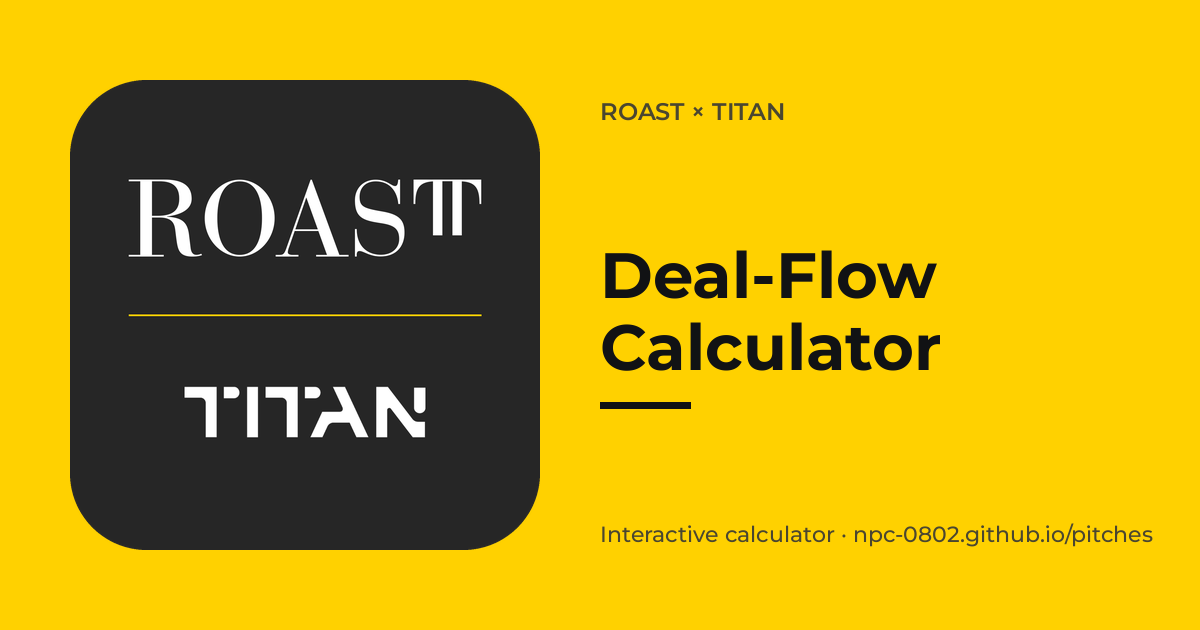
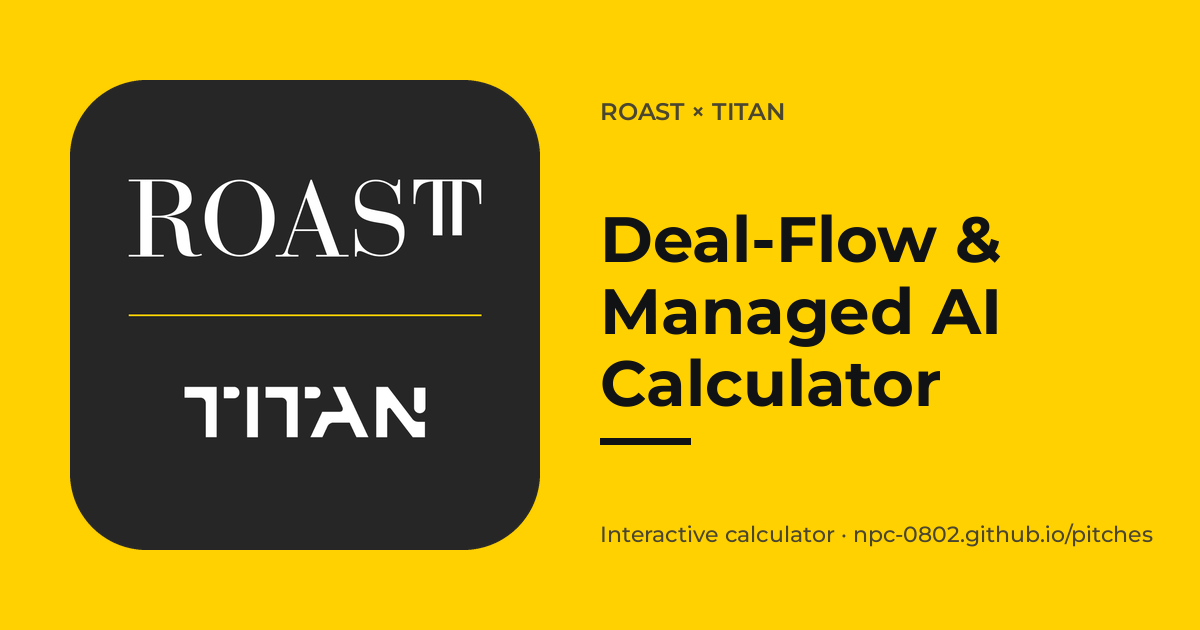
Titan calculator v2: deal flow from warming the seller list and being found, plus Managed AI for portfolio clients
Claude-Session: https://claude.ai/code/session_0127LAqr8J8f1qpkmaHLPX8r

Changed region(s): [[0.4933, 0.3317, 0.8325, 0.6635], [0.4933, 0.6937, 0.5858, 0.7238]]

diff --git a/titan-deal-flow-calculator/index.html b/titan-deal-flow-calculator/index.html
@@ -3,24 +3,24 @@
 <head>
 <meta charset="utf-8">
 <meta name="viewport" content="width=device-width, initial-scale=1, viewport-fit=cover">
-<title>Titan Deal-Flow Calculator</title>
+<title>Titan Deal-Flow & Managed AI Calculator</title>
 <!-- share:start -->
 <link rel="icon" href="../assets/favicon.svg" type="image/svg+xml">
 <link rel="icon" href="../assets/favicon-32.png" sizes="32x32" type="image/png">
 <link rel="apple-touch-icon" href="../assets/apple-touch-icon.png">
-<meta name="description" content="What Google Ads on owner searches, an owner hub and a bigger share of AI answers are worth to Titan in qualified seller conversations, deals and acquired revenue, and what each month of waiting defers.">
+<meta name="description" content="What warming the owners Titan wants to buy, being found in Google and AI, and launching Managed AI to existing clients is worth in deals and revenue; ~$8.5M a year at placeholder rates.">
 <meta property="og:type" content="website">
 <meta property="og:site_name" content="ROAST">
-<meta property="og:title" content="Titan Deal-Flow Calculator">
-<meta property="og:description" content="What Google Ads on owner searches, an owner hub and a bigger share of AI answers are worth to Titan in qualified seller conversations, deals and acquired revenue, and what each month of waiting defers.">
+<meta property="og:title" content="Titan Deal-Flow &amp; Managed AI Calculator">
+<meta property="og:description" content="What warming the owners Titan wants to buy, being found in Google and AI, and launching Managed AI to existing clients is worth in deals and revenue; ~$8.5M a year at placeholder rates.">
 <meta property="og:url" content="https://npc-0802.github.io/pitches/titan-deal-flow-calculator/">
 <meta property="og:image" content="https://npc-0802.github.io/pitches/titan-deal-flow-calculator/og.png">
 <meta property="og:image:width" content="1200">
 <meta property="og:image:height" content="630">
-<meta property="og:image:alt" content="ROAST × Titan: Deal-Flow Calculator">
+<meta property="og:image:alt" content="ROAST × Titan: Deal-Flow &amp; Managed AI Calculator">
 <meta name="twitter:card" content="summary_large_image">
-<meta name="twitter:title" content="Titan Deal-Flow Calculator">
-<meta name="twitter:description" content="What Google Ads on owner searches, an owner hub and a bigger share of AI answers are worth to Titan in qualified seller conversations, deals and acquired revenue, and what each month of waiting defers.">
+<meta name="twitter:title" content="Titan Deal-Flow &amp; Managed AI Calculator">
+<meta name="twitter:description" content="What warming the owners Titan wants to buy, being found in Google and AI, and launching Managed AI to existing clients is worth in deals and revenue; ~$8.5M a year at placeholder rates.">
 <meta name="twitter:image" content="https://npc-0802.github.io/pitches/titan-deal-flow-calculator/og.png">
 <!-- share:end -->
 <link rel="stylesheet" href="https://fonts.googleapis.com/css2?family=Archivo:wght@500;700;900&family=Public+Sans:wght@400;500;600&display=swap">
@@ -121,44 +121,31 @@ td:last-child,th:last-child{text-align:right;font-weight:700}
   </div>
 
   <div>
-    <h1>What being found by MSP owners in Google and AI answers is worth in deals for Titan</h1>
-    <p class="lede">Titan aims to close 20+ deals a year and has closed two. US owners thinking about selling make ~780 searches a month for things like "sell my MSP," "MSP acquisitions" and "MSP valuation multiples," and Titan ranks for none of them. When owners ask AI who is buying MSPs, it names Evergreen, The 20 and New Charter; Titan shows up in ~6% of those answers (Evergreen ~28%). This models Google Ads on the owner searches now, then an owner hub that ranks, and the press, buyer lists and AI answers that name Titan. Pick a tier, then replace our placeholder rates with Titan's own.</p>
+    <h1>What marketing to the owners Titan wants to buy, and the clients it already serves, is worth</h1>
+    <p class="lede">Titan aims to close 20+ deals a year and take Managed AI past 100 customers. Both goals run on lists: ~8,000 US MSPs clear Titan's $2M revenue bar, and its MSPs already serve 400+ clients. Today Titan reaches owners through its own outreach, with no ads, owner content or 2026 trade press behind it, and when owners ask AI who is buying MSPs, it names Evergreen, not Titan. This models three things: warming the owners on Titan's list before its outreach lands, being the buyer owners find in Google and AI, and launching Managed AI to the clients Titan already has. Replace our placeholder rates with Titan's own.</p>
   </div>
 
   <div class="grid">
     <section class="panel" aria-label="Assumptions">
-      <div class="sect" style="border-top:0;padding-top:0">Paid search: Google Ads on the 13 owner searches</div>
+      <div class="sect" style="border-top:0;padding-top:0">Sellers: the ~8,000 MSPs Titan could buy</div>
       <div class="ctl">
-        <div class="row"><label for="budget">Google Ads budget a month</label><output id="budgetOut" for="budget">$870</output></div>
-        <input type="range" id="budget" min="0" max="3000" step="10" value="870">
-        <div class="band" id="budgetBand"></div>
-        <div class="why">The whole market is ~780 searches a month, so ads top out around $870. Titan runs no ads today; a broker (Roadmap Advisors) bids on "sell my msp."</div>
+        <div class="row"><label for="outreach">Seller conversations a year from Titan's outreach</label><output id="outreachOut" for="outreach">15</output></div>
+        <input type="range" id="outreach" min="5" max="300" step="5" value="15">
+        <div class="band" id="outreachBand"></div>
+        <div class="why">Placeholder until Titan shares its own: ~15 a year at a 10% close is about the pace of its two deals in ~16 months. 20 deals takes ~200.</div>
       </div>
       <div class="ctl">
-        <div class="row"><label for="cpc">Cost per click</label><output id="cpcOut" for="cpc">$7.44</output></div>
-        <input type="range" id="cpc" min="2" max="30" step="0.01" value="7.44">
-        <div class="why">Ahrefs' guide averages $7.44 across these searches ($2.50–35); Keyword Planner will confirm.</div>
-      </div>
-      <div class="sect">Organic &amp; AI: titanmsp.ai, the press and the buyer lists</div>
-      <div class="ctl">
-        <div class="row"><label for="search">New owner visits a month from Google</label><output id="searchOut" for="search">72</output></div>
-        <input type="range" id="search" min="0" max="300" step="1" value="72">
-        <div class="band" id="searchBand"></div>
-        <div class="why">An owner hub (selling, valuation, deal structures, the 9-week process) reaching Google's top three for the 13 searches. 72 = all of them; the long tail is extra.</div>
+        <div class="row"><label for="lift">More conversations when owners already know Titan</label><output id="liftOut" for="lift">+25%</output></div>
+        <input type="range" id="lift" min="0" max="100" step="5" value="25">
+        <div class="why">Placeholder: LinkedIn on the named list, posts from people owners know, an owner guide and retargeting before the outreach lands. A 90-day test on half the list measures it.</div>
       </div>
       <div class="ctl">
-        <div class="row"><label for="ai">New owner arrivals a month from AI answers</label><output id="aiOut" for="ai">90</output></div>
-        <input type="range" id="ai" min="0" max="300" step="1" value="90">
-        <div class="why">~400 owner AI questions a month (GWI: IT entrepreneurs find brands through AI half as often as B2B buyers do through search) × Titan named in 28% of sell-side answers instead of 6% (Peec).</div>
-      </div>
-      <div class="sect">Every deal</div>
-      <div class="ctl">
-        <div class="row"><label for="conv">Owner visit to a qualified seller conversation</label><output id="convOut" for="conv">0.50%</output></div>
-        <input type="range" id="conv" min="0.1" max="2" step="0.05" value="0.5">
-        <div class="why">Placeholder until Titan shares its own: ~2–3% of owners reach out, and ~18% of US MSPs clear the $2M bar (Fox &amp; Crow). Ad clicks convert at three-quarters of this.</div>
+        <div class="row"><label for="found">Seller conversations a year from owners who find Titan</label><output id="foundOut" for="found">15</output></div>
+        <input type="range" id="found" min="0" max="60" step="1" value="15">
+        <div class="why">Google Ads on the ~780 owner searches a month (~5 a year), an owner hub in Google's top three and Titan named in 28% of sell-side AI answers instead of 6% (~10 a year), at 0.5% of owner visits.</div>
       </div>
       <div class="ctl">
-        <div class="row"><label for="close">Qualified conversation to a closed deal</label><output id="closeOut" for="close">10%</output></div>
+        <div class="row"><label for="close">Seller conversation to a closed deal</label><output id="closeOut" for="close">10%</output></div>
         <input type="range" id="close" min="2" max="30" step="1" value="10">
         <div class="why">Placeholder until Titan shares its own (intro call to LOI to close).</div>
       </div>
@@ -167,45 +154,61 @@ td:last-child,th:last-child{text-align:right;font-weight:700}
         <input type="range" id="rev" min="2000000" max="15000000" step="250000" value="4000000">
         <div class="why">Placeholder: Titan's bar is $2M+; Shield's partners average ~$11M (Shield, Feb 2026).</div>
       </div>
-      <div class="presets" role="group" aria-label="Scenarios tied to the plan">
-        <button class="preset" type="button" data-p="870,7.44,0,0,0.5,10,4000000"><b>Tier 1: fix the front door + start ads</b>A seller form instead of a mailto link, FAQ schema, llms.txt, ~$870 a month of ads on the owner searches</button>
-        <button class="preset" type="button" data-p="870,7.44,36,37,0.5,10,4000000"><b>Tier 2: the owner hub</b>Pages on selling, valuation, deal structures and alternatives to PE, half of them in the top three</button>
-        <button class="preset" type="button" data-p="870,7.44,72,90,0.5,10,4000000" aria-pressed="true"><b>Tier 3: named by the press, lists and AI</b>The headline: StoredTech announced, trade press and buyer lists; named in 28% of sell-side AI answers</button>
-        <button class="preset" type="button" data-p="870,7.44,143,158,0.5,10,4000000"><b>Tier 4 (ceiling)</b>The long tail too; named in 45% of sell-side AI answers</button>
+      <div class="sect">Clients: Managed AI for the firms Titan's MSPs already serve</div>
+      <div class="ctl">
+        <div class="row"><label for="clients">Portfolio clients</label><output id="clientsOut" for="clients">400</output></div>
+        <input type="range" id="clients" min="100" max="1500" step="50" value="400">
+        <div class="why">Titan's job posts cite 400+ customers; RFA alone says it serves 700+ financial-services firms. Every new deal adds its clients.</div>
+      </div>
+      <div class="ctl">
+        <div class="row"><label for="adopt">Clients who take Managed AI because of the launch</label><output id="adoptOut" for="adopt">10%</output></div>
+        <input type="range" id="adopt" min="0" max="40" step="1" value="10">
+        <div class="band" id="adoptBand"></div>
+        <div class="why">Placeholder: a launch kit per MSP (page, proof, client emails and LinkedIn to client decision-makers, a briefing). Titan's goal is 100+ Managed AI customers.</div>
+      </div>
+      <div class="ctl">
+        <div class="row"><label for="mai">Managed AI revenue per client a month</label><output id="maiOut" for="mai">$2,000</output></div>
+        <input type="range" id="mai" min="500" max="10000" step="250" value="2000">
+        <div class="why">Placeholder until Titan shares its Managed AI pricing.</div>
+      </div>
+      <div class="presets" role="group" aria-label="How much outreach Titan runs">
+        <button class="preset" type="button" data-p="15,25,15,10,4000000,400,10,2000" aria-pressed="true"><b>Today's outreach</b>~15 seller conversations a year: about the pace of Titan's two deals so far</button>
+        <button class="preset" type="button" data-p="60,25,15,10,4000000,400,10,2000"><b>As the M&A team grows</b>~60 a year: four times today, with the new VP of M&A and sourcing hires</button>
+        <button class="preset" type="button" data-p="200,25,15,10,4000000,400,10,2000"><b>At the 20-deal goal</b>~200 a year: what 20 deals takes at a 10% close</button>
       </div>
     </section>
 
     <section class="result" aria-live="polite" aria-label="Outcome">
       <div>
-        <div class="label">Acquired revenue a year from deals sourced through Google Ads, search and AI</div>
-        <div class="big" id="revT">$0</div>
-        <div class="sub" id="revSub"></div>
+        <div class="label">Added revenue a year: acquired revenue from extra deals plus Managed AI revenue</div>
+        <div class="big" id="tot">$0</div>
+        <div class="sub" id="totSub"></div>
       </div>
 
       <div class="stats">
-        <div class="stat"><div class="v" id="deals">0</div><div class="l">deals a year</div></div>
-        <div class="stat"><div class="v" id="convs">0</div><div class="l">qualified seller talks a year</div></div>
-        <div class="stat"><div class="v" id="cpq">—</div><div class="l">ad cost per seller talk</div></div>
+        <div class="stat"><div class="v" id="deals">0</div><div class="l">extra deals a year</div></div>
+        <div class="stat"><div class="v" id="convs">0</div><div class="l">extra seller talks a year</div></div>
+        <div class="stat"><div class="v" id="maic">0</div><div class="l">Managed AI clients</div></div>
       </div>
 
       <div class="bars">
-        <div class="t">Qualified seller conversations a year, by source</div>
-        <div class="bar"><span>Google Ads</span><div class="fill"><i id="bA"></i></div><span class="n" id="nA">0</span></div>
-        <div class="bar"><span>Google search</span><div class="fill"><i id="bS"></i></div><span class="n" id="nS">0</span></div>
-        <div class="bar"><span>AI answers</span><div class="fill"><i id="bX"></i></div><span class="n" id="nX">0</span></div>
+        <div class="t">Seller conversations a year</div>
+        <div class="bar"><span>Outreach today</span><div class="fill"><i id="bB"></i></div><span class="n" id="nB">0</span></div>
+        <div class="bar"><span>Added: warmed list</span><div class="fill"><i id="bW"></i></div><span class="n" id="nW">0</span></div>
+        <div class="bar"><span>Added: found</span><div class="fill"><i id="bF"></i></div><span class="n" id="nF">0</span></div>
       </div>
 
       <div class="corp">
-        <div class="t">What the deals are worth inside Titan (not in the revenue figure)</div>
+        <div class="t">What the extra deals are worth inside Titan (not in the revenue figure)</div>
         <div class="stats">
           <div class="stat"><div class="v" id="goal">0%</div><div class="l">of a 20-deal year</div></div>
           <div class="stat"><div class="v" id="eq">$0</div><div class="l">equity value per deal</div></div>
-          <div class="stat"><div class="v" id="peq">$0</div><div class="l">a month to buy the search clicks</div></div>
+          <div class="stat"><div class="v" id="maip">0%</div><div class="l">of the Managed AI goal</div></div>
         </div>
       </div>
 
-      <table aria-label="Conversion sensitivity">
-        <thead><tr><th>If an owner visit converts at</th><th>Deals / yr</th><th>Acquired revenue / yr</th></tr></thead>
+      <table aria-label="Lift sensitivity">
+        <thead><tr><th>If warming the list lifts outreach by</th><th>Extra deals / yr</th><th>Added revenue / yr</th></tr></thead>
         <tbody id="sens"></tbody>
       </table>
     </section>
@@ -213,67 +216,62 @@ td:last-child,th:last-child{text-align:right;font-weight:700}
 
   <div class="inaction">
     <h2>What waiting costs</h2>
-    <p>Each month without the plan defers about <b id="perMonth">$0</b> of acquired revenue at these rates, about one deal every <b id="perDeal">0</b> months. Meanwhile <b>Shield has closed 20 MSP deals and Evergreen closed 47 in 2025</b>. Asked who the most active MSP acquirers are, Google's AI answer names Evergreen, The 20, New Charter, Thrive, Ntiva and Dataprise, and Titan's second deal (StoredTech) was never announced, so the AI roll-up trackers still list one. Owners hear about Titan from its outreach and then search its name ("titan msp" is ~1,010 searches a month); the owners who start with a search or an AI question find someone else.</p>
+    <p>Each month without the program defers about <b id="perMonth">$0</b> of added revenue at these rates, about one deal every <b id="perDeal">0</b> months. Meanwhile <b>Shield has closed 20 MSP deals and Evergreen closed 47 in 2025</b>, and Shield's backer, Thrive Holdings, took an investment from OpenAI last December. Asked who the most active MSP acquirers are, Google's AI answer names Evergreen, The 20, New Charter, Thrive, Ntiva and Dataprise. Titan's second deal (StoredTech) was never announced, so the AI roll-up trackers still list one.</p>
   </div>
 
   <div class="foot">
-    <div>Owner searches: Ahrefs, US, 26 Oct 2026: 13 sell-side head terms, 780 searches a month ("msp for sale" and "msp partner program" left out: buyers and vendor programs); Titan ranks top 100 for none of the 47 category searches its audiences make (141,150 a month). CTR curve (ROAST working curve): #1 28%, #2 16%, #3 11%, top-three average with a 50% AI Overview haircut ~9.2%. Ads: Ahrefs CPC guide, volume-weighted $7.44; ads rarely win more than ~15% of a market's clicks (~117 a month here). AI: Peec.ai day-1 baseline, 26 Oct 2026 (95 prompts across ChatGPT, Gemini and Google AI Overviews; one day, so a first read): Titan named in 1.6% of "selling an MSP" answers and 9.7% of "MSP acquirers" answers; Evergreen 23.0% and 32.3%. GWI Core, US, Q4 2025–Q2 2026 (proxy audiences): 55.9% of B2B buyers find new providers through search (index 167); 28.7% of IT/telecoms entrepreneurs find brands through AI (index 258). Site traffic: Similarweb, US, Jul–Sep 2026: ~6,928 visits a month, 40% direct and 38% organic search, 77.5% of search branded, no paid search. Market: ~8,000 US MSPs above $2M revenue (Fox &amp; Crow, Oct 2025); Titan's goal of 20+ deals a year (Titan VP M&amp;A job post, Oct 2026); multiples 5–7x EBITDA for small MSPs and ~12–13x for platforms (Drake Star, 2026).</div>
-    <div>Formula: Google Ads budget ÷ CPC (capped at ~15% of the owner searches) × visit-to-conversation × 0.75 = ad-sourced conversations; (Google visits + AI arrivals) × visit-to-conversation = organic conversations; × 12 = a year; × conversation-to-close = deals; × revenue per acquired MSP = acquired revenue. Equity value per deal = revenue × 15% EBITDA margin (placeholder) × the 5–8 turn gap between small-MSP and platform multiples. Titan pays for what it acquires; this counts what search and AI add to deal flow, not profit. What the search clicks would cost in Google Ads is never added to the revenue. Every revenue figure uses placeholder rates until Titan shares its own funnel.</div>
-    <div>Part of the ROAST × Titan search, AI visibility and deal-flow analysis, October 2026.</div>
+    <div>Lists: ~8,000 US MSPs above $2M revenue (Fox &amp; Crow, Oct 2025); Titan's goals of 20+ deals a year (VP M&amp;A job post, Oct 2026) and Managed AI past 100 customers (Head of Growth job post); 400+ customers (Titan job posts) and 700+ financial-services firms (RFA, Aug 2026). Found channels (ROAST model, Oct 26, 2026): Google Ads on 13 owner searches, ~780 a month (Ahrefs, US), ~$870 a month at $7.44 a click, ad clicks at 0.75x; an owner hub in the top three (~9.2% CTR with a 50% AI Overview haircut, ~72 visits a month); AI: ~400 owner AI questions a month (GWI proxy ratio) × Titan named in 28% of sell-side answers instead of 5.6% (Peec.ai day-1 baseline, Oct 26, 2026); 0.5% of owner visits become a qualified conversation (placeholder). Rivals: Shield (Channel Dive, Sep 2026), Evergreen (Omdia via Evergreen, 2026), OpenAI's stake in Thrive Holdings (ChannelE2E, Dec 2025). Multiples: 5–7x EBITDA for small MSPs, ~12–13x for platforms (Drake Star, 2026).</div>
+    <div>Formula: outreach conversations × lift = conversations added by warming the list; + conversations from owners who find Titan = extra conversations; × conversation-to-close = extra deals; × revenue per acquired MSP = acquired revenue. Portfolio clients × Managed AI uptake from the launch = Managed AI clients; × revenue per client × 12 = Managed AI revenue. Equity value per deal = revenue × 15% EBITDA margin (placeholder) × the 5–8 turn gap between small-MSP and platform multiples. Titan pays for what it acquires; this counts what marketing adds to deal flow and Managed AI, not profit. Every figure uses placeholder rates until Titan shares its own.</div>
+    <div>Part of the ROAST × Titan deal-flow and Managed AI analysis, October 2026.</div>
   </div>
 </div>
 
 <script>
 (function(){
   const $=id=>document.getElementById(id);
-  const C={"OWNER": 780, "SEARCH_ALL": 72, "CAP": 117, "AD_SHARE": 0.15, "PAID": 0.75, "MARGIN": 0.15, "SP_LO": 5, "SP_HI": 8, "GOAL": 20};
-  const ids=["budget", "cpc", "search", "ai", "conv", "close", "rev"];
+  const C={"MARGIN": 0.15, "SP_LO": 5, "SP_HI": 8, "GOAL": 20, "MAIGOAL": 100};
+  const ids=["outreach", "lift", "found", "close", "rev", "clients", "adopt", "mai"];
   const els=ids.map($);
   const fmtI=n=>Math.round(n).toLocaleString('en-US');
   const fmt1=n=>(Math.round(n*10)/10).toLocaleString('en-US');
   const fmtD=n=>'$'+Math.round(n).toLocaleString('en-US');
-  const fmtM=n=>n>=1e6?'$'+(n/1e6).toFixed(1)+'M':fmtD(n);
+  const fmtM=n=>n>=1e6?'$'+(n/1e6).toFixed(1)+'M':(n>=1e3?'$'+Math.round(n/1e3)+'K':fmtD(n));
   const presets=[...document.querySelectorAll('.preset')];
   const now=new Date(), today=new Date(now.getFullYear(),now.getMonth(),now.getDate());
   let due=new Date(2027,0,1), lab='days left in 2026';
   if(today>=due){due=new Date(2027,3,1);lab='days to the end of Q1 2027';}
   $('days').textContent=Math.max(0,Math.ceil((due-today)/86400000)); $('dayslabel').textContent=lab;
   function model(v){
-    const cv=v.conv/100, cl=v.close/100;
-    const clicks=v.cpc?Math.min(v.budget/v.cpc,C.CAP):0;
-    const qA=clicks*cv*C.PAID*12, qS=v.search*cv*12, qX=v.ai*cv*12, q=qA+qS+qX;
-    const dA=qA*cl, dO=(qS+qX)*cl, deals=dA+dO, rev=deals*v.rev, spend=v.budget*12;
-    return {clicks,qA,qS,qX,q,dA,dO,deals,rev,spend,cpq:qA?spend/qA:0,peq:v.search*v.cpc,
-            eqLo:v.rev*C.MARGIN*C.SP_LO,eqHi:v.rev*C.MARGIN*C.SP_HI};
+    const cl=v.close/100, warmed=v.outreach*v.lift/100, extra=warmed+v.found, deals=extra*cl, acq=deals*v.rev;
+    const maic=v.clients*v.adopt/100, mair=maic*v.mai*12;
+    return {warmed,extra,deals,acq,maic,mair,tot:acq+mair,base:v.outreach,eqLo:v.rev*C.MARGIN*C.SP_LO,eqHi:v.rev*C.MARGIN*C.SP_HI};
   }
   function vals(){const v={};ids.forEach((k,i)=>v[k]=+els[i].value);return v;}
   function render(){
     const v=vals();
-    $('budgetOut').value=fmtD(v.budget); $('cpcOut').value='$'+v.cpc.toFixed(2); $('searchOut').value=fmtI(v.search); $('aiOut').value=fmtI(v.ai);
-    $('convOut').value=v.conv.toFixed(2)+'%'; $('closeOut').value=v.close+'%'; $('revOut').value=fmtD(v.rev);
+    $('outreachOut').value=fmtI(v.outreach); $('liftOut').value='+'+v.lift+'%'; $('foundOut').value=fmtI(v.found);
+    $('closeOut').value=v.close+'%'; $('revOut').value=fmtD(v.rev); $('clientsOut').value=fmtI(v.clients);
+    $('adoptOut').value=v.adopt+'%'; $('maiOut').value=fmtD(v.mai);
     const o=model(v);
-    const raw=v.cpc?v.budget/v.cpc:0, over=raw>C.CAP*1.02;
-    $('budgetBand').className='band'+(over?' warn':'');
-    $('budgetBand').textContent=v.budget===0?'No ads: brokers keep the paid results':
-      `Buys ~${fmtI(o.clicks)} clicks a month, ${Math.round(o.clicks/C.OWNER*100)}% of the owner searches`+(over?'; past ~15% the extra budget buys nothing here':'');
-    const sh=v.search/C.SEARCH_ALL;
-    $('searchBand').className='band'+(sh>1?' warn':'');
-    $('searchBand').textContent=v.search===0?'Nothing new: Titan ranks for none of these today':
-      `${Math.round(sh*100)}% of what top three on all 13 would bring (${fmtI(C.SEARCH_ALL)} a month)`+(sh>1?'; past 100% needs the long tail':'');
-    $('revT').textContent=fmtD(o.rev);
-    $('revSub').textContent=`${fmt1(o.q)} qualified seller conversations a year × ${v.close}% × ${fmtM(v.rev)} per acquired MSP.`;
-    $('deals').textContent=fmt1(o.deals); $('convs').textContent=fmt1(o.q); $('cpq').textContent=o.qA?fmtD(o.cpq):'—';
-    const mx=Math.max(o.qA,o.qS,o.qX,1)*1.08;
-    [['bA','nA',o.qA],['bS','nS',o.qS],['bX','nX',o.qX]].forEach(([b,n,x])=>{$(b).style.width=(x/mx*100)+'%';$(n).textContent=fmt1(x);});
-    $('goal').textContent=Math.round(o.deals/C.GOAL*100)+'%'; $('eq').textContent=fmtM(o.eqLo)+'–'+fmtM(o.eqHi).replace('$',''); $('peq').textContent=fmtD(o.peq);
-    $('sens').innerHTML=[Math.max(0.1,v.conv/2),v.conv,Math.min(2,v.conv*2)].map(x=>{const m=model(Object.assign({},v,{conv:x}));return `<tr><td>${x.toFixed(2)}%</td><td>${fmt1(m.deals)}</td><td>${fmtD(m.rev)}</td></tr>`;}).join('');
-    $('perMonth').textContent=fmtD(o.rev/12); $('perDeal').textContent=o.deals?fmt1(12/o.deals):'—';
+    $('outreachBand').textContent=`About ${fmt1(v.outreach*v.close/100)} deals a year from outreach on its own`;
+    const g=o.maic/C.MAIGOAL;
+    $('adoptBand').className='band'+(g>=1?'':' ');
+    $('adoptBand').textContent=`${fmtI(o.maic)} Managed AI clients, ${Math.round(g*100)}% of the 100-customer goal`;
+    $('tot').textContent=fmtD(o.tot);
+    $('totSub').textContent=`${fmtM(o.acq)} of acquired revenue from ${fmt1(o.deals)} extra deals + ${fmtM(o.mair)} of Managed AI revenue from ${fmtI(o.maic)} clients.`;
+    $('deals').textContent=fmt1(o.deals); $('convs').textContent=fmt1(o.extra); $('maic').textContent=fmtI(o.maic);
+    const mx=Math.max(o.base,o.warmed,v.found,1)*1.08;
+    [['bB','nB',o.base],['bW','nW',o.warmed],['bF','nF',v.found]].forEach(([b,n,x])=>{$(b).style.width=(x/mx*100)+'%';$(n).textContent=fmt1(x);});
+    $('goal').textContent=Math.round(o.deals/C.GOAL*100)+'%'; $('eq').textContent=fmtM(o.eqLo)+'–'+fmtM(o.eqHi).replace('$','');
+    $('maip').textContent=Math.round(g*100)+'%';
+    $('sens').innerHTML=[10,25,50].map(x=>{const m=model(Object.assign({},v,{lift:x}));return `<tr><td>+${x}%</td><td>${fmt1(m.deals)}</td><td>${fmtD(m.tot)}</td></tr>`;}).join('');
+    $('perMonth').textContent=fmtD(o.tot/12); $('perDeal').textContent=o.deals?fmt1(12/o.deals):'—';
     presets.forEach(pr=>{const q=pr.dataset.p.split(',').map(Number);pr.setAttribute('aria-pressed',String(q.every((x,k)=>x===+els[k].value)));});
-    try{localStorage.setItem('titan-calc-v1',JSON.stringify(els.map(e=>e.value)));}catch(e){}
+    try{localStorage.setItem('titan-calc-v2',JSON.stringify(els.map(e=>e.value)));}catch(e){}
   }
   els.forEach(el=>el.addEventListener('input',render));
   presets.forEach(pr=>pr.addEventListener('click',()=>{const q=pr.dataset.p.split(',');els.forEach((el,k)=>el.value=q[k]);render();}));
-  try{const s=JSON.parse(localStorage.getItem('titan-calc-v1'));if(Array.isArray(s)&&s.length===els.length){els.forEach((el,k)=>el.value=s[k]);}}catch(e){}
+  try{const s=JSON.parse(localStorage.getItem('titan-calc-v2'));if(Array.isArray(s)&&s.length===els.length){els.forEach((el,k)=>el.value=s[k]);}}catch(e){}
   render();
 })();
 </script>

diff --git a/index.html b/index.html
@@ -61,5 +61,5 @@
 <a class="card" href="hungerrush-pipeline-value-calculator/">HungerRush Pipeline-Value Calculator<span>What restaurant-tech search pages that rank and a bigger share of AI answers are worth to HungerRush in demo requests, new customers and first-year revenue, option by option, and what each month of waiting defers.</span></a>
 <a class="card" href="fairfaxfavor-order-value-calculator/">Fairfax &amp; Favor Order-Value Calculator<span>What category Shopping &amp; Search ads, rebuilt boot collections and AI answers are worth to Fairfax &amp; Favor in new online orders and sales, per £1 of ads, and what each month of waiting defers.</span></a>
 <a class="card" href="purple-mattress-sales-calculator/">Purple Mattress-Sales Calculator<span>What category ads moved from brand terms, “best for” pages, size guides and AI answers are worth to Purple in new online orders and sales, per $1 of ads, and what each month of waiting defers.</span></a>
-<a class="card" href="titan-deal-flow-calculator/">Titan Deal-Flow Calculator<span>What Google Ads on owner searches, an owner hub and a bigger share of AI answers are worth to Titan in qualified seller conversations, deals and acquired revenue, and what each month of waiting defers.</span></a>
+<a class="card" href="titan-deal-flow-calculator/">Titan Deal-Flow &amp; Managed AI Calculator<span>What warming the owners Titan wants to buy, being found in Google and AI, and launching Managed AI to existing clients are worth in seller conversations, deals and revenue, and what each month of waiting defers.</span></a>
 </body></html>

diff --git a/README.md b/README.md
@@ -45,7 +45,7 @@ Interactive pages that accompany ROAST pitch decks. Static HTML, served with Git
 | HungerRush Pipeline-Value Calculator — what restaurant-tech search pages that rank (pages at positions 4–20 moved up, pizza POS back to #1, money pages for the restaurant-POS, POS-cost and online-ordering searches peers win) and a bigger share of AI answers are worth to HungerRush in demo requests, new customers and first-year revenue, by the three options in ROAST's RFI response, with Spahr Media's Google Ads shown alongside and what each month of waiting defers | `hungerrush-pipeline-value-calculator/` |
 | Fairfax & Favor Order-Value Calculator — what category Shopping & Search ads (partly funded by a brand-ad holdout test), rebuilt boot collections, US pages and AI answers are worth to Fairfax & Favor in new online orders and sales (£), per £1 of ads, and what each month of waiting defers | `fairfaxfavor-order-value-calculator/` |
 | Purple Mattress-Sales Calculator — what category ads moved from brand terms, "best for" pages, size guides and AI answers are worth to Purple in new online orders and sales, per $1 of ads, and what each month of waiting defers | `purple-mattress-sales-calculator/` |
-| Titan Deal-Flow Calculator — what Google Ads on owner searches, an owner hub and a bigger share of AI answers are worth to Titan in qualified seller conversations, deals and acquired revenue, and what each month of waiting defers | `titan-deal-flow-calculator/` |
+| Titan Deal-Flow & Managed AI Calculator — what warming the owners Titan wants to buy, being found in Google and AI, and launching Managed AI to existing clients are worth in seller conversations, deals, acquired revenue and Managed AI revenue, and what each month of waiting defers | `titan-deal-flow-calculator/` |
 
 ## Favicon and link previews
 
